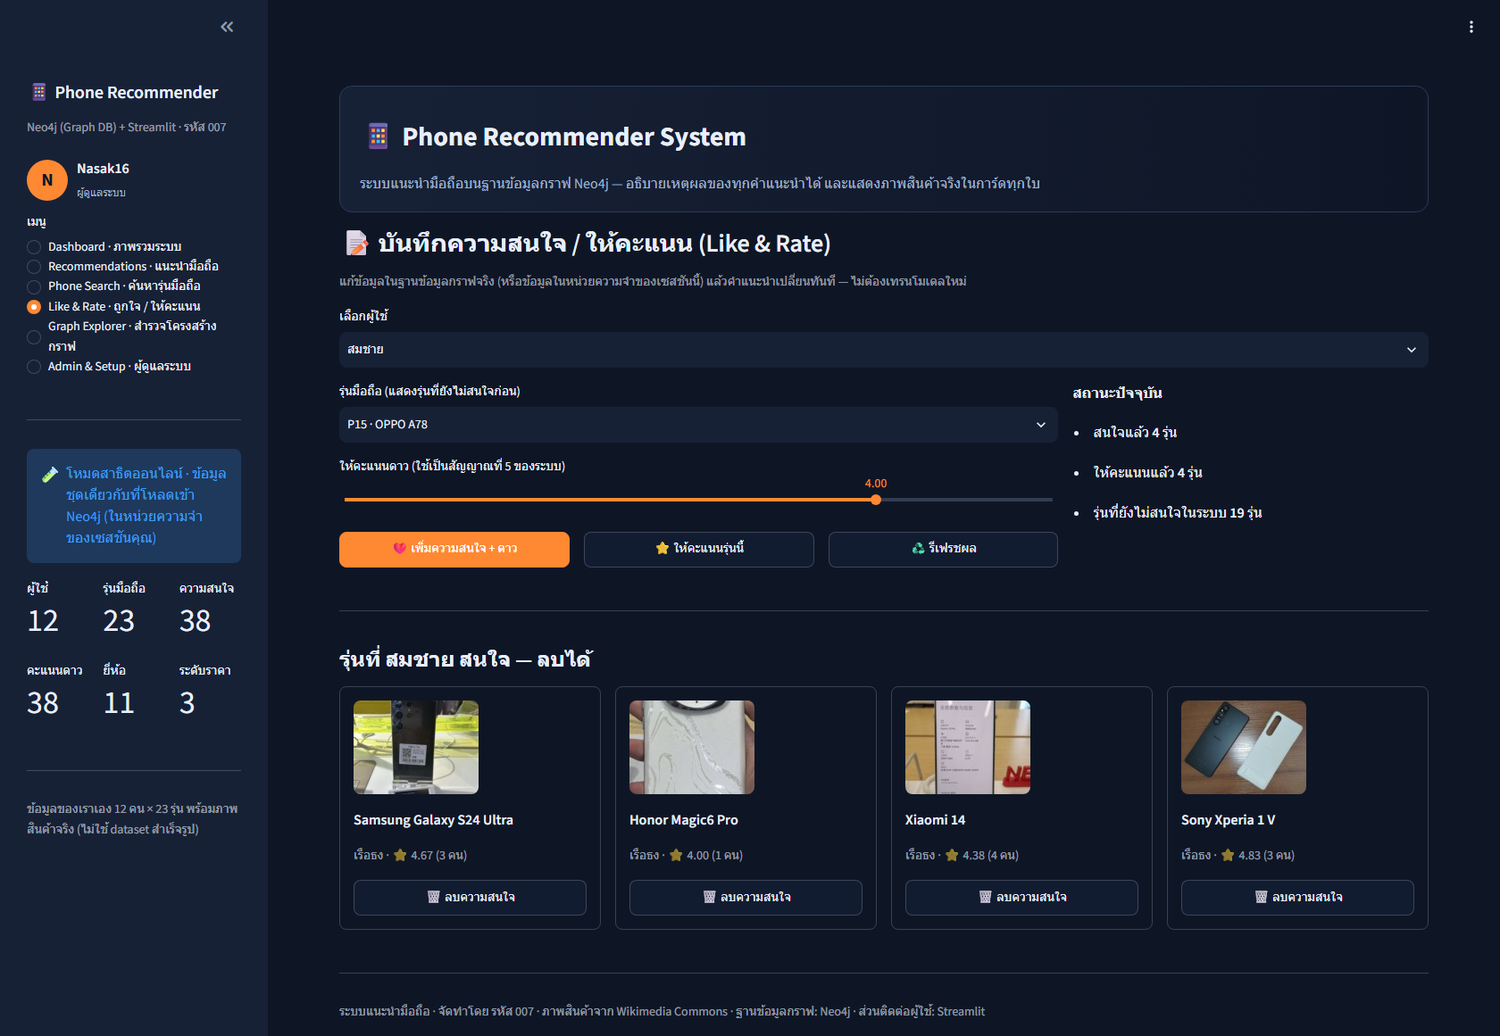
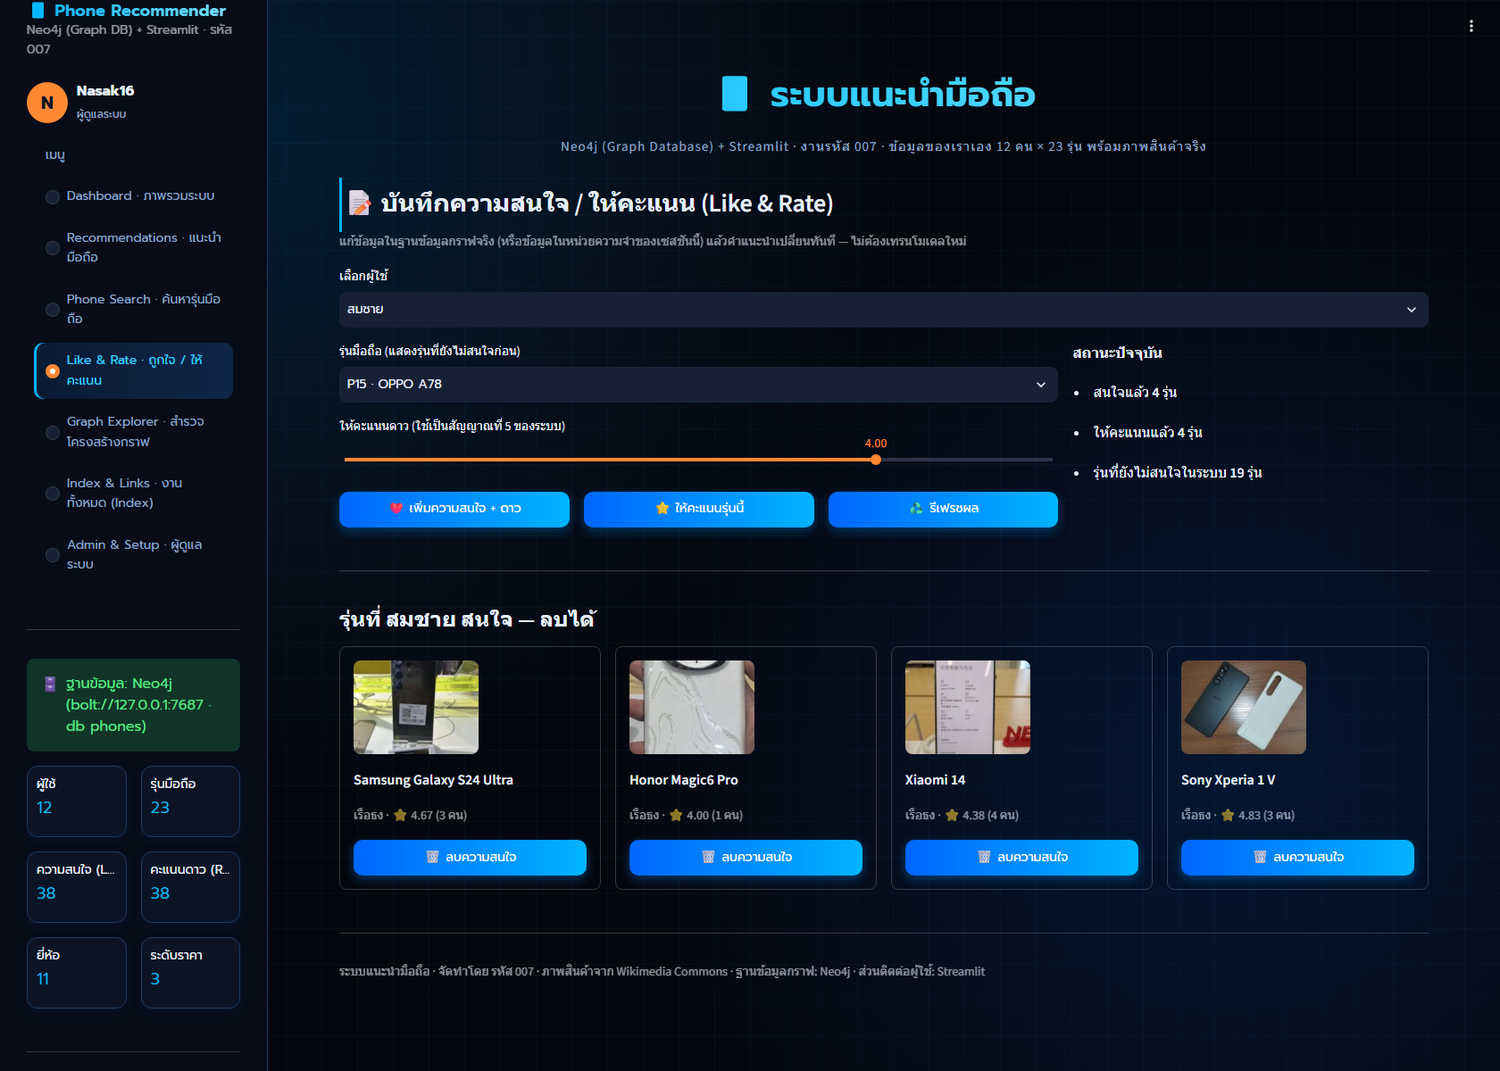
เปลี่ยนธีมแอปเป็น dark neon แบบงานรุ่นพี่ + หน้า Index เป็นการ์ดมีปุ่ม gradient
- theme.py: CSS ธีม dark neon (ฟอนต์ไทย Prompt + Orbitron, พื้นหลังตารางจาง, การ์ดขอบฟ้าเรืองแสง hover ยกขึ้น, ปุ่มไล่สี, sidebar เมนูแบบไฮไลต์แถบซ้าย, การ์ดลิงก์แบบ hub)
- app.py: เรียก theme.inject() + hero ใหม่ + sidebar 6 ตัวชี้วัดเป็น 2 คอลัมน์ (ชื่อไม่ถูกตัด) + หน้า Index แสดงการ์ดมีปุ่มเปิด (งานล่าสุด 4 ใบ + งานในวิชานี้ 2 คอลัมน์)
- shots_deck.py: ถ่าย 7 หน้า (เพิ่ม Index) + อัปเดตภาพในสไลด์/PDF/PNG
- README: อธิบายธีมและหน้ารวมงานแบบ hub

diff --git a/theme.py b/theme.py
@@ -1,0 +1,201 @@
+#!/usr/bin/env python3
+# -*- coding: utf-8 -*-
+"""ธีมหน้าตาแอป (dark neon + ฟอนต์ไทย Prompt/Orbitron) — อ้างอิงสไตล์จากงานรุ่นพี่ที่ส่ง
+
+ใช้:  from theme import CSS, HERO, card_html, inject
+      inject()            # เรียกครั้งเดียวหลัง st.set_page_config
+"""
+import streamlit as st
+
+CSS = """
+<style>
+@import url('https://fonts.googleapis.com/css2?family=Prompt:wght@300;400;500;700&family=Orbitron:wght@700&display=swap');
+
+/* ---------- พื้นหลัง: ดำ-น้ำเงิน + ตารางจาง ๆ ---------- */
+.stApp {
+    background: #05070f;
+    background-image:
+        radial-gradient(circle at 18% 12%, rgba(0,160,255,0.14) 0%, transparent 42%),
+        radial-gradient(circle at 82% 72%, rgba(0,90,200,0.18) 0%, transparent 42%),
+        linear-gradient(rgba(0,160,255,0.05) 1px, transparent 1px),
+        linear-gradient(90deg, rgba(0,160,255,0.05) 1px, transparent 1px);
+    background-size: auto, auto, 40px 40px, 40px 40px;
+    background-attachment: fixed;
+    color: #e6f1ff;
+}
+[data-testid="stHeader"] { background: transparent; }
+html, body, [class*="css"], .stMarkdown, .stCaption { font-family: 'Prompt', sans-serif; }
+.block-container { padding-top: 1.4rem; padding-bottom: 2rem; max-width: 1500px; }
+footer { visibility: hidden; }
+
+h1, h2, h3, h4 { font-family: 'Prompt', sans-serif; color: #e6f1ff; letter-spacing: .2px; }
+h3 { border-left: 3px solid #00b4ff; padding-left: 12px; }
+
+/* ---------- Hero ---------- */
+.hero { text-align: center; padding: 22px 10px 6px 10px; }
+.hero h1 {
+    font-family: 'Orbitron', 'Prompt', sans-serif;
+    font-size: 2.5rem; margin: 0;
+    background: linear-gradient(90deg, #00b4ff, #38d0ff, #7fe3ff);
+    -webkit-background-clip: text; -webkit-text-fill-color: transparent;
+}
+.hero p { color: #8fa8c8; letter-spacing: 1px; margin-top: 8px; font-size: .95rem; }
+
+/* ---------- การ์ด (container border) ---------- */
+div[data-testid="stVerticalBlockBorderWrapper"] {
+    background: #0b1220;
+    border: 1px solid #1b3a63;
+    border-radius: 18px;
+    padding: 10px 12px;
+    box-shadow: 0 4px 15px rgba(0,120,255,0.10);
+    transition: all .3s ease;
+}
+div[data-testid="stVerticalBlockBorderWrapper"]:hover {
+    transform: translateY(-4px);
+    border-color: #00b4ff;
+    box-shadow: 0 8px 25px rgba(0,180,255,0.28);
+}
+div[data-testid="stVerticalBlockBorderWrapper"] img {
+    border-radius: 12px; border: 1px solid #1b3a63;
+}
+
+/* ---------- ปุ่ม ---------- */
+.stButton > button, div[data-testid="stDownloadButton"] button {
+    background: linear-gradient(90deg, #0066ff, #00b4ff);
+    color: #ffffff; font-weight: 600; border: none; border-radius: 10px;
+    box-shadow: 0 4px 12px rgba(0,140,255,0.35); transition: all .2s;
+}
+.stButton > button:hover, div[data-testid="stDownloadButton"] button:hover {
+    filter: brightness(1.12); color: #ffffff;
+    box-shadow: 0 6px 18px rgba(0,180,255,0.5);
+    border: none;
+}
+.stButton > button p { color: #ffffff; font-family: 'Prompt', sans-serif; }
+
+/* ---------- ตัวชี้วัด ---------- */
+div[data-testid="stMetric"] {
+    background: #0b1220; border: 1px solid #1b3a63; border-radius: 14px;
+    padding: 12px 14px; box-shadow: 0 4px 14px rgba(0,120,255,0.08);
+}
+div[data-testid="stMetricLabel"] p { color: #8fa8c8 !important; font-size: .82rem; }
+div[data-testid="stMetricValue"] {
+    font-family: 'Orbitron', 'Prompt', sans-serif;
+    background: linear-gradient(90deg, #00b4ff, #7fe3ff);
+    -webkit-background-clip: text; -webkit-text-fill-color: transparent;
+}
+
+/* ---------- Sidebar + เมนู ---------- */
+section[data-testid="stSidebar"] {
+    background: #070c18; border-right: 1px solid #1b3a63;
+}
+div[data-testid="stSidebarCollapseButton"],
+div[data-testid="stSidebarCollapsedControl"], [data-testid="collapsedControl"],
+div[data-testid="stSidebarHeader"] { display: none; visibility: hidden; }
+section[data-testid="stSidebar"] div[data-testid="stMetricLabel"] p {
+    font-size: .78rem; line-height: 1.25; word-break: keep-all;
+}
+section[data-testid="stSidebar"] * { font-family: 'Prompt', sans-serif; }
+section[data-testid="stSidebar"] div[data-testid="stRadio"] label {
+    display: block; margin: 3px 8px; padding: 9px 13px !important;
+    border-radius: 10px; color: #8fa8c8 !important; font-weight: 500;
+    transition: all .2s ease; cursor: pointer;
+}
+section[data-testid="stSidebar"] div[data-testid="stRadio"] label:hover {
+    background: #0f1d36;
+}
+section[data-testid="stSidebar"] div[data-testid="stRadio"] label:hover * { color: #38d0ff !important; }
+section[data-testid="stSidebar"] div[data-testid="stRadio"] label:has(input:checked) {
+    background: linear-gradient(90deg, #0a1a33, #0f2548);
+    box-shadow: inset 3px 0 0 #00b4ff;
+}
+section[data-testid="stSidebar"] div[data-testid="stRadio"] label:has(input:checked) * {
+    color: #38d0ff !important;
+}
+section[data-testid="stSidebar"] div[data-testid="stRadio"] label > div:first-child { display: none; }
+section[data-testid="stSidebar"] div[data-testid="stMetric"] {
+    background: #0b1526; border-radius: 12px; padding: 8px 10px; margin-bottom: 6px;
+}
+section[data-testid="stSidebar"] div[data-testid="stMetricValue"] { font-size: 1.15rem; }
+section[data-testid="stSidebar"] h2 {
+    font-family: 'Orbitron', 'Prompt', sans-serif; font-size: 1.15rem;
+    background: linear-gradient(90deg, #00b4ff, #7fe3ff);
+    -webkit-background-clip: text; -webkit-text-fill-color: transparent;
+    border: none; padding: 0;
+}
+
+/* ---------- ตาราง / แท็บ / กล่องขยาย ---------- */
+div[data-testid="stDataFrame"], div[data-testid="stTable"] {
+    border-radius: 12px; overflow: hidden; border: 1px solid #1b3a63;
+}
+div[data-testid="stExpander"] details {
+    background: #0b1220; border: 1px solid #1b3a63; border-radius: 14px;
+}
+div[data-testid="stExpander"] summary { color: #cfe3ff; font-weight: 500; }
+div[data-testid="stTextArea"] textarea, div[data-testid="stTextInput"] input,
+div[data-testid="stSelectbox"] div[data-baseweb="select"] > div {
+    background: #0b1220 !important; border-color: #1b3a63 !important; color: #e6f1ff !important;
+}
+div[data-testid="stAlert"] { border-radius: 14px; }
+.stSlider [data-baseweb="slider"] div[role="slider"] { background: #00b4ff; }
+.stProgress > div > div > div > div { background: linear-gradient(90deg,#0066ff,#00b4ff); }
+hr { border-color: #1b3a63; }
+
+/* ---------- การ์ดลิงก์ในหน้า Index ---------- */
+.lcard {
+    background: #0b1220; border: 1px solid #1b3a63; border-radius: 18px;
+    padding: 18px; height: 225px; display: flex; flex-direction: column;
+    justify-content: space-between; overflow: hidden; margin-bottom: 16px;
+    box-shadow: 0 4px 15px rgba(0,120,255,0.10); transition: all .3s ease;
+}
+.lcard > div:first-child { flex: 1 1 auto; min-height: 0; }
+.lcard:hover {
+    transform: translateY(-6px); border-color: #00b4ff;
+    box-shadow: 0 8px 25px rgba(0,180,255,0.30);
+}
+.lcard .icon { font-size: 1.9rem; }
+.lcard h3 {
+    color: #e6f1ff !important; margin: 6px 0 4px 0; font-size: 1.02rem; font-weight: 700;
+    border: none !important; padding: 0 !important;
+}
+.lcard p {
+    color: #8fa8c8; font-size: .8rem; line-height: 1.45; margin: 0 0 10px 0;
+    display: -webkit-box; -webkit-line-clamp: 5; -webkit-box-orient: vertical; overflow: hidden;
+}
+.lbtn { flex: 0 0 auto; }
+.lcard .tagline {
+    color: #38d0ff; font-size: .72rem; letter-spacing: .5px; margin-bottom: 6px;
+    white-space: nowrap; overflow: hidden; text-overflow: ellipsis;
+}
+.lbtn {
+    display: block; text-align: center; text-decoration: none !important;
+    padding: 9px; border-radius: 10px; font-weight: 600; color: #ffffff !important;
+    background: linear-gradient(90deg, #0066ff, #00b4ff);
+    box-shadow: 0 4px 12px rgba(0,140,255,0.35); transition: all .2s;
+}
+.lbtn:hover { filter: brightness(1.12); box-shadow: 0 6px 18px rgba(0,180,255,0.5); }
+</style>
+"""
+
+HERO = """
+<div class="hero">
+    <h1>📱 ระบบแนะนำมือถือ</h1>
+    <p>Neo4j (Graph Database) + Streamlit · งานรหัส 007 · ข้อมูลของเราเอง 12 คน × 23 รุ่น พร้อมภาพสินค้าจริง</p>
+</div>
+"""
+
+
+def inject():
+    st.markdown(CSS, unsafe_allow_html=True)
+
+
+def hero(text=None):
+    st.markdown(text or HERO, unsafe_allow_html=True)
+
+
+def card_html(icon, title, desc, url, label="เปิดแอป →", tagline=None, height=230):
+    """การ์ดลิงก์สไตล์เดียวกับ hub (ใช้ unsafe_allow_html)"""
+    tag = f'<div class="tagline">{tagline}</div>' if tagline else ""
+    return (f'<div class="lcard" style="height:{height}px">'
+            f'<div><div class="icon">{icon}</div>{tag}'
+            f'<h3>{title}</h3><p>{desc}</p></div>'
+            f'<a class="lbtn" href="{url}" target="_blank" rel="noopener">{label}</a></div>')

diff --git a/app.py b/app.py
@@ -15,11 +15,13 @@ import pandas as pd
 import streamlit as st
 
 ROOT = os.path.dirname(os.path.abspath(__file__))
+import theme  # noqa: E402  (ธีม dark neon + ฟอนต์ไทย)
 sys.path.insert(0, ROOT)
 sys.path.insert(0, os.path.join(ROOT, "data"))
 
 st.set_page_config(page_title="ระบบแนะนำมือถือ | Neo4j + Streamlit", page_icon="📱",
                    layout="wide")
+theme.inject()
 
 PAGES = ["Dashboard", "Recommendations", "Phone Search", "Like & Rate",
          "Graph Explorer", "Index & Links", "Admin & Setup"]
@@ -157,25 +159,20 @@ with st.sidebar:
         st.success("ฐานข้อมูล: " + backend_label, icon="🗄")
     else:
         st.info(backend_label, icon="🧪")
-    m1, m2, m3 = st.columns(3)
-    m1.metric("ผู้ใช้", stat["users"])
-    m2.metric("รุ่นมือถือ", stat["phones"])
-    m3.metric("ความสนใจ", stat["likes"])
-    m4, m5, m6 = st.columns(3)
-    m4.metric("คะแนนดาว", stat.get("ratings", 0))
-    m5.metric("ยี่ห้อ", stat["brands"])
-    m6.metric("ระดับราคา", stat["tiers"])
+    r1c1, r1c2 = st.columns(2)
+    r1c1.metric("ผู้ใช้", stat["users"])
+    r1c2.metric("รุ่นมือถือ", stat["phones"])
+    r2c1, r2c2 = st.columns(2)
+    r2c1.metric("ความสนใจ (LIKES)", stat["likes"])
+    r2c2.metric("คะแนนดาว (RATED)", stat.get("ratings", 0))
+    r3c1, r3c2 = st.columns(2)
+    r3c1.metric("ยี่ห้อ", stat["brands"])
+    r3c2.metric("ระดับราคา", stat["tiers"])
     st.divider()
     st.caption("ข้อมูลของเราเอง 12 คน × 23 รุ่น พร้อมภาพสินค้าจริง "
                "(ไม่ใช้ dataset สำเร็จรูป)")
 
-st.markdown(
-    """<div style="background:linear-gradient(90deg,#172136,#0E1626);border:1px solid #2B3A5C;
-    border-radius:14px;padding:18px 22px;margin-bottom:6px">
-    <h1 style="margin:0;font-size:30px">📱 Phone Recommender System</h1>
-    <p style="margin:6px 0 0 0;color:#9FB0CB">ระบบแนะนำมือถือบนฐานข้อมูลกราฟ Neo4j —
-    อธิบายเหตุผลของทุกคำแนะนำได้ และแสดงภาพสินค้าจริงในการ์ดทุกใบ</p></div>""",
-    unsafe_allow_html=True)
+theme.hero()
 
 # ------------------------------------------------------------------ 1. Dashboard
 if page == "Dashboard":
@@ -473,16 +470,42 @@ elif page == "Index & Links":
     c2.metric("หมวดวิชา", len(cats))
     c3.metric("งานในวิชานี้ (ฐานข้อมูล)", len(cats.get("ฐานข้อมูล", [])))
 
-    st.markdown("#### 🗂 งานในวิชานี้ (ฐานข้อมูล)")
-    for it in cats.get("ฐานข้อมูล", []):
-        with st.container(border=True):
-            st.markdown(f"**{it['title']}**")
-            st.caption(it["desc"])
-            links = " · ".join([f"[{lbl}]({href})" for lbl, href in it["extra"]])
-            st.markdown(f"[📂 โค้ดบน GitHub]({it['url']})" + (f" · {links}" if links else "")
-                        + f" · _อัปเดต {it['date']}_")
+    st.markdown("#### ⭐ งานล่าสุด: ระบบแนะนำมือถือ (ชิ้นนี้)")
+    hub = [("📱", "ระบบแนะนำมือถือ (ชิ้นนี้)", "โค้ดทั้งหมดบน GitHub: Neo4j + Streamlit 7 หน้า",
+            "https://github.com/Nasak16/phone-recommender", "เปิดโค้ด →",
+            "phone-recommender · อัปเดต " + (HW.HOMEWORK[0]["date"] if HW.HOMEWORK else "")),
+           ("📓", "โน๊ตบุ๊ก Colab", "อธิบายวิธีทำทีละขั้น + ผลลัพธ์จริงทุกเซลล์ (26 เซลล์)",
+            "https://colab.research.google.com/gist/Nasak16/8667b219bbff8253335ec78f78b5c79e/PhoneRecommender_Neo4j_007.ipynb",
+            "เปิดโน๊ตบุ๊ก →", "Colab · getpass"),
+           ("📊", "สไลด์นำเสนอ 16 หน้า", "PowerPoint + PDF + PNG (อยู่ใน GitHub ตามโจทย์ข้อ 2)",
+            "https://github.com/Nasak16/phone-recommender/tree/main/slides",
+            "เปิดสไลด์ →", "slides/*.pptx · *.pdf"),
+           ("🌐", "หน้า index รวมทุกงาน", "รวมงานทุกชิ้นที่ส่งไว้ (14 งาน) พร้อมลิงก์",
+            HW.INDEX_URL, "เปิดหน้า index →", "nasak16.github.io/homework")]
+    for i in range(0, len(hub), 4):
+        cols = st.columns(4)
+        for col, (ic, t, d, u, lb, tag) in zip(cols, hub[i:i + 4]):
+            with col:
+                st.markdown(theme.card_html(ic, t, d, u, lb, tag, height=210),
+                            unsafe_allow_html=True)
 
-    st.divider()
+    st.markdown("#### 🗂 งานในวิชานี้ (ฐานข้อมูล)")
+    db = cats.get("ฐานข้อมูล", [])
+    for i in range(0, len(db), 2):
+        cols = st.columns(2)
+        for col, it in zip(cols, db[i:i + 3]):
+            with col:
+                url = it["extra"][0][1] if it["extra"] else it["url"]
+                label = ("เปิด" + it["extra"][0][0].replace("📓 ", " ") + " →") if it["extra"] \
+                    else "เปิดโค้ด →"
+                st.markdown(theme.card_html(
+                    "📘" if "book" in it["repo"] else ("🧪" if it["repo"] == "GrapDB1" else
+                                                       ("📈" if it["repo"] == "grafanaDB" else "📱")),
+                    it["title"], it["desc"], url, label,
+                    f"{it['repo']} · อัปเดต {it['date']}" + (f" · +{len(it['extra'])} ลิงก์" if it["extra"] else ""),
+                    height=250), unsafe_allow_html=True)
+
+    st.markdown("#### 📚 งานหมวดอื่น")
     for cat, items in sorted(cats.items(), key=lambda kv: (-len(kv[1]), kv[0])):
         if cat == "ฐานข้อมูล":
             continue
@@ -491,13 +514,6 @@ elif page == "Index & Links":
                 st.markdown(f"- [{it['title']}]({it['url']}) · `{it['repo']}` · {it['date']}")
                 if it["desc"]:
                     st.caption(it["desc"])
-
-    st.divider()
-    st.markdown(f"""**ลิงก์ที่เกี่ยวข้อง**
-- หน้า index หลัก: [{HW.INDEX_URL}]({HW.INDEX_URL})
-- โค้ดระบบนี้: [github.com/Nasak16/phone-recommender](https://github.com/Nasak16/phone-recommender)
-- สไลด์นำเสนอ (.pptx/.pdf): [slides/](https://github.com/Nasak16/phone-recommender/tree/main/slides)
-- โน๊ตบุ๊ก Colab: [PhoneRecommender_Neo4j_007.ipynb](https://colab.research.google.com/gist/Nasak16/8667b219bbff8253335ec78f78b5c79e/PhoneRecommender_Neo4j_007.ipynb)""")
 
 # ------------------------------------------------------------------ 7. Admin & Setup
 else:

diff --git a/tools/shots_deck.py b/tools/shots_deck.py
@@ -14,11 +14,13 @@ OUT = os.path.join(ROOT, "shots")
 os.makedirs(OUT, exist_ok=True)
 URL = sys.argv[1] if len(sys.argv) > 1 else "http://127.0.0.1:8783"
 
+# ลำดับต้องตรงกับเมนูในแอป (radio index)
 PAGES = [("Dashboard", "ภาพรวมระบบ", "07_dashboard"),
          ("Recommendations", "แนะนำมือถือ", "01_hero"),
          ("Phone Search", "ค้นหารุ่นมือถือ", "02_catalog"),
          ("Like & Rate", "ถูกใจ / ให้คะแนน", "04_rate"),
          ("Graph Explorer", "สำรวจโครงสร้างกราฟ", "03_graph"),
+         ("Index & Links", "งานทั้งหมด (Index)", "08_index"),
          ("Admin & Setup", "ผู้ดูแลระบบ", "05_admin")]
 
 

diff --git a/README.md b/README.md
@@ -10,6 +10,8 @@
 
 `Neo4j` · `Cypher` · `Streamlit` · `pandas` · `Google Colab`
 
+ธีม: **dark neon** (ฟอนต์ไทย Prompt + Orbitron, พื้นหลังตารางจาง, การ์ดขอบฟ้าเรืองแสง, ปุ่มไล่สี)
+
 [![Open In Colab](https://colab.research.google.com/assets/colab-badge.svg)](https://colab.research.google.com/gist/Nasak16/8667b219bbff8253335ec78f78b5c79e/PhoneRecommender_Neo4j_007.ipynb)
 
 </div>
@@ -25,7 +27,7 @@
 | 🔎 **Phone Search** · ค้นหารุ่นมือถือ | ค้นหา/กรองตามยี่ห้อและระดับราคา + เรียงตามคนสนใจ/ดาวเฉลี่ย แสดงการ์ดพร้อมภาพ |
 | 📝 **Like & Rate** · ถูกใจ / ให้คะแนน | เพิ่ม/ลบความสนใจ และ **ให้คะแนนดาว 1.0–5.0** (เขียนลงฐานข้อมูลจริง) แล้วเห็นคำแนะนำ **ก่อน–หลัง** เปลี่ยนทันทีโดยไม่ต้องเทรนใหม่ |
 | 🕸 **Graph Explorer** · สำรวจโครงสร้างกราฟ | วาดกราฟผู้ใช้ ↔ รุ่นมือถือ + เส้นทางการตัดสินใจของอันดับ 1 + **ตารางความสัมพันธ์ (edge) ทั้งหมด** + **ช่องรันคำสั่ง Cypher เอง** (อ่านข้อมูลเท่านั้น) |
-| 📚 **Index & Links** · งานทั้งหมด (Index) | หัวข้อรวมงานทุกชิ้นบน GitHub (ดึงจากหน้า index อัตโนมัติด้วย `tools/build_homework_index.py`) + ลิงก์หน้า index หลัก/สไลด์/โน๊ตบุ๊ก |
+| 📚 **Index & Links** · งานทั้งหมด (Index) | หน้า hub แบบการ์ด **มีปุ่ม gradient** ต่อการ์ด: งานชิ้นนี้ · โน๊ตบุ๊ก Colab · สไลด์ · หน้า index รวมงาน (ดึงข้อมูลจากหน้า index อัตโนมัติด้วย `tools/build_homework_index.py`) + งานในวิชานี้/หมวดอื่น |
 | ⚙ **Admin & Setup** · ผู้ดูแลระบบ | โครงสร้างกราฟ (schema) · ปุ่ม **รีโหลดข้อมูลตัวอย่างแบบ idempotent** (MERGE กดซ้ำได้) · ล้างโหนดที่ไม่มีเส้นเชื่อม · ดาวน์โหลดข้อมูล CSV · สรุปวิธีทำงานสำหรับผู้ตรวจ |
 
 **วิธีให้คะแนน 5 วิธี** (เลือกได้ในหน้า Recommendations)
@@ -127,7 +129,8 @@ py -3.13 tools/finalize_notebook.py         # รันทุกเซลล์ 
 
 ```
 phone-recommender/
-├── app.py                     # เว็บแอป Streamlit (6 หน้า: Dashboard → Admin & Setup)
+├── app.py                     # เว็บแอป Streamlit (6 หน้า + หน้ารวมงาน: Dashboard → Admin & Setup)
+├── theme.py                   # ธีม dark neon + ฟอนต์ไทย (Prompt/Orbitron) + การ์ดลิงก์แบบ hub
 ├── recommender.py             # แกนระบบ: Cypher + ให้คะแนน 5 วิธี + run_readonly()
 ├── graph_fallback.py          # backend สำรองในหน่วยความจำ (ตรรกะเดียวกับ Cypher)
 ├── graph_view.py              # วาดกราฟผู้ใช้ ↔ รุ่นมือถือ (matplotlib/networkx)
